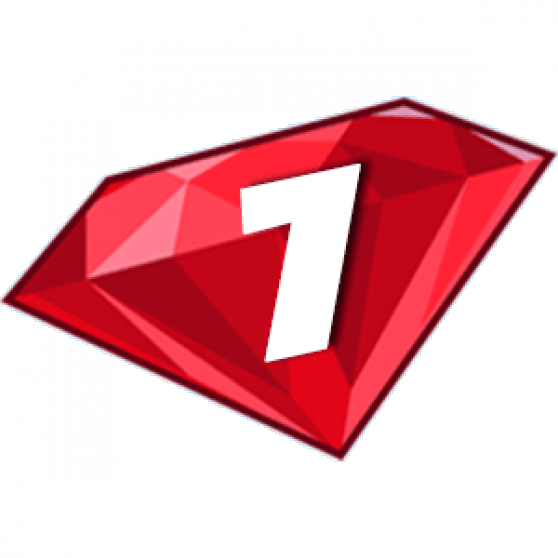
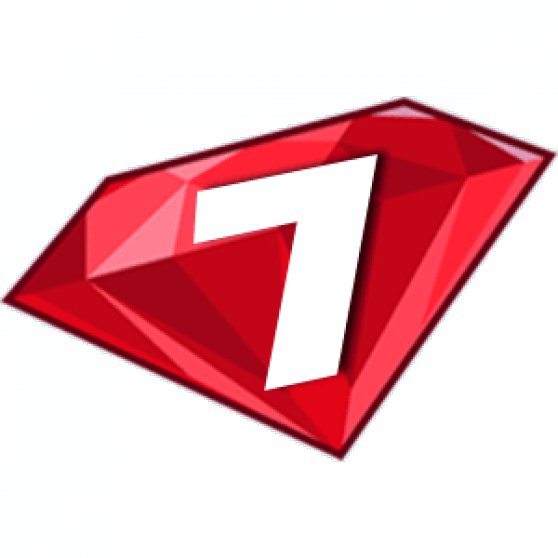
now a 7 day program!

Changed region(s): [[0.3351, 0.2437, 0.7007, 0.7007]]

diff --git a/js/javascript.js b/js/javascript.js
@@ -1,7 +1,7 @@
 // remove the static text for search engines
 document.getElementById("static").style.display = "none";
 
-var sevenDayBootcamp;		// kept outside for console inspection
+var app;		// kept outside for console inspection
 
 $.fn.ready(function(){
 
@@ -13,7 +13,7 @@ $.fn.ready(function(){
     return false;
   }
 
-  sevenDayBootcamp = {
+  app = {
     appname: "Seven Day HTML/CSS Bootcamp",
     structure: "",
     style: "",
@@ -30,139 +30,92 @@ $.fn.ready(function(){
       },
     fn: {
      setStructure: function(_structure) {
-        sevenDayBootcamp.structure = _structure || sevenDayBootcamp.structure;
+        app.structure = _structure || app.structure;
       },
       setStyle: function(_style) {
-        sevenDayBootcamp.style = _style || sevenDayBootcamp.style;
+        app.style = _style || app.style;
       },
-        // sets sevenDayBootcamp props, fills editors, renders output
+        // sets app props, fills editors, renders output
       useStructureStyle: function(settings) {
         if (typeof settings !== "object") { return false; }
         if (!settings.structure || !settings.style) { return false; }
-        sevenDayBootcamp.fn.setStructure(settings.structure);
-        sevenDayBootcamp.fn.setStyle(settings.style);
-        sevenDayBootcamp.editors.structure.getSession().setValue(settings.structure);
-        sevenDayBootcamp.editors.style.getSession().setValue(settings.style);
+        app.fn.setStructure(settings.structure);
+        app.fn.setStyle(settings.style);
+        app.editors.structure.getSession().setValue(settings.structure);
+        app.editors.style.getSession().setValue(settings.style);
         return true;
       },
       renderOutput: function(sWhat){
-        sevenDayBootcamp.throttle.render = sevenDayBootcamp.throttle.render || setTimeout(function(){
+        app.throttle.render = app.throttle.render || setTimeout(function(){
           sWhat = sWhat || "all";
           if ((sWhat === "html") || (sWhat === "all")) {
-            sevenDayBootcamp.$.output.body.html(
-                sevenDayBootcamp.structure
+            app.$.output.body.html(
+                app.structure
                 );
-            var sTitle = sevenDayBootcamp.$.output.body.find("h1:first").text().trim();
-            document.title = sevenDayBootcamp.appname;
-            if (sTitle && sTitle !== sevenDayBootcamp.appname) { document.title +=  " - " + sTitle; }
+            var sTitle = app.$.output.body.find("h1:first").text().trim();
+            document.title = app.appname;
+            if (sTitle && sTitle !== app.appname) { document.title +=  " - " + sTitle; }
           }
           if ((sWhat === "style") || (sWhat === "all")) {
-            sevenDayBootcamp.$.output.head.html(
-                $("<style />").html(sevenDayBootcamp.style)
+            app.$.output.head.html(
+                $("<style />").html(app.style)
                 );
           }
-          sevenDayBootcamp.throttle.render = undefined;
+          app.throttle.render = undefined;
         }, 500);
       },
-      saveToLocal: function(){
+      saveToLocal: function(day){
         var obj = {
-          structure: sevenDayBootcamp.editors.structure.getSession().getValue(),
-          style: sevenDayBootcamp.editors.style.getSession().getValue()
+          structure: app.editors.structure.getSession().getValue(),
+          style: app.editors.style.getSession().getValue()
         };
-        localStorage.sevenDayBootcamp = JSON.stringify(obj);
-        return localStorage.sevenDayBootcamp;
+        localStorage.setItem(day, JSON.stringify(obj));
+        return localStorage.getItem(day);
       },
-      getLocal: function() {
-        if (localStorage.sevenDayBootcamp) {
-          sevenDayBootcamp.fn.useStructureStyle($.parseJSON(localStorage.sevenDayBootcamp));
+      getLocal: function(day) {
+        data = localStorage.getItem(day);
+        if (data) {
+          app.fn.useStructureStyle($.parseJSON(data));
           return true;
         }
         return false;
       },
-      getDefaults: function(){
-        // probably not the cleanest way to do this...
+      getData: function(day){
         var iMilli = +new Date(), def = {};
-        function areWeThereYet() {
+        function load() {
           if (def.structure && def.style) {
-            sevenDayBootcamp.fn.useStructureStyle(def);
+            app.fn.useStructureStyle(def);
           }
         }
-        $.get("defaults/structure.html?" + iMilli, function(resp) {
+        $.get("/data/"+day+".html?" + iMilli, function(resp) {
           def.structure = resp;
-          areWeThereYet();
+          load();
         }, "text");
-        $.get("defaults/style.css?" + iMilli, function(resp) {
+        $.get("/data/"+day+".css?" + iMilli, function(resp) {
           def.style = resp;
-          areWeThereYet();
+          load();
         }, "text");
         return true;
       },
-      reset: function(){
-        delete localStorage.sevenDayBootcamp;
-        sevenDayBootcamp.fn.getDefaults();
+      reset: function(day){
+        delete localStorage.getItem(day);
+        app.fn.getData(day);
       },
       exportUri: function(){
         // will open a data URI in a new window, some browsers may cut it off...
-        var sTitle = sevenDayBootcamp.$.output.body.find("h1:first").text().trim();
+        var sTitle = app.$.output.body.find("h1:first").text().trim();
         var sUrl = "data:text/html," +
           encodeURIComponent(
               (sTitle ? "<title>" + sTitle + "</title> " : "") +
-              "<body>" + sevenDayBootcamp.structure + "</body> " +
-              "<style>" + sevenDayBootcamp.style + "</style> " +
+              "<body>" + app.structure + "</body> " +
+              "<style>" + app.style + "</style> " +
               "<form action='" + document.location.protocol + "//" + document.location.host + document.location.pathname + "' method='get' style='display:none'>" + 
-              "<textarea name='structure'>" + sevenDayBootcamp.editors.structure.getSession().getValue() + "</textarea> " +
-              "<textarea name='style'>" + sevenDayBootcamp.editors.style.getSession().getValue() + "</textarea> " +
+              "<textarea name='structure'>" + app.editors.structure.getSession().getValue() + "</textarea> " +
+              "<textarea name='style'>" + app.editors.style.getSession().getValue() + "</textarea> " +
               "</form> " +
               "<script src='" + document.location.protocol + "//" + document.location.host + document.location.pathname + "js/external.js'></script>"
               );
         window.open(sUrl);
-      },
-      getFromUrl: function(){
-        // http://stackoverflow.com/questions/439463/how-to-get-get-and-post-variables-with-jquery
-        var params = (function(){
-          var qs = document.location.search.split("+").join(" ");
-          var params = {}, tokens, re = /[?&]?([^=]+)=([^&]*)/g;
-          while (tokens = re.exec(qs)) {
-            params[decodeURIComponent(tokens[1])] = decodeURIComponent(tokens[2]);
-          }
-          return params;
-        }());
-        if (!params.structure || !params.style) { return false; }
-        sevenDayBootcamp.fn.useStructureStyle(params);
-        // clean up URL
-        if (Modernizr.history) {
-          history.replaceState(null, null, document.location.pathname);
-        }
-        return true;
-      },
-      fileDragOver: function (evt) {
-        evt.stopPropagation();
-          evt.preventDefault();
-          $body.addClass("dropit");
-      },
-      fileDrop: function (evt) {
-        evt.stopPropagation();
-          evt.preventDefault();
-          var files = evt.dataTransfer.files;
-          for (var i = 0, f; f = files[i]; i++) {
-            var reader = new FileReader();
-              reader.onload = (function (theFile) {
-                return function (e) {
-                  // clean this up!
-                  if (theFile.name.indexOf(".html") > -1) {
-                    sevenDayBootcamp.editors.structure.getSession().setValue(e.target.result);
-                    sevenDayBootcamp.fn.setStructure(e.target.result);
-                  } else if (theFile.name.indexOf(".css") > -1) {
-                    sevenDayBootcamp.editors.style.getSession().setValue(e.target.result);
-                    sevenDayBootcamp.fn.setStyle(e.target.result);
-                  }
-                };
-              })(f);
-            reader.readAsText(f);
-          }
-        sevenDayBootcamp.fn.renderOutput();
-        sevenDayBootcamp.fn.saveToLocal();
-        $body.removeClass("dropit");
       }
     } // fn
   };
@@ -172,74 +125,72 @@ $.fn.ready(function(){
   { name: "structure", id: "preStructure", mode: require("ace/mode/html").Mode },
   { name: "style", id: "preStyle", mode: require("ace/mode/css").Mode }
   ];
+  var day = function() {
+    var d;
+    if(location.href.split("?").length>1) {
+      d = location.href.split("?")[1].split("=")[1];
+    }
+    return d || 1
+  }()
+
   $.each(editors, function (iEditor, editor) {
-    var $editor = sevenDayBootcamp.$[editor.name] = $("#" + editor.id);
+    var $editor = app.$[editor.name] = $("#" + editor.id);
     var oEditor = ace.edit(editor.id);
     oEditor.setTheme("ace/theme/twilight");
     oEditor.getSession().setMode(new editor.mode);
     oEditor.renderer.setShowGutter(false);
     oEditor.renderer.setShowPrintMargin(false);
     oEditor.getSession().setUseSoftTabs(true);
-    sevenDayBootcamp.editors[editor.name] = oEditor;
+    app.editors[editor.name] = oEditor;
     oEditor.on("focus", function(){ $editor.addClass("focus"); });
     oEditor.on("blur", function(){ $editor.removeClass("focus"); });
   });
 
-  // attempt: fill from URL, get localStorage, or load defaults; then render
-  if (!sevenDayBootcamp.fn.getFromUrl()) {
-    if (!sevenDayBootcamp.fn.getLocal()) {
-      sevenDayBootcamp.fn.getDefaults();
-    }
+  // attempt: fill from localStorage, or load data; then render
+  if (!app.fn.getLocal(day)) {
+    app.fn.getData(day);
   }
-  sevenDayBootcamp.fn.renderOutput();
+  app.fn.renderOutput();
 
   // bind change events (not perfect: doesn't know paste, deleting)
   // could be abstracted more
-  sevenDayBootcamp.editors.structure.getSession().on('change', function() {
-    sevenDayBootcamp.fn.setStructure(sevenDayBootcamp.editors.structure.getSession().getValue());
-    sevenDayBootcamp.fn.renderOutput("html");
-    sevenDayBootcamp.fn.saveToLocal();
+  app.editors.structure.getSession().on('change', function() {
+    app.fn.setStructure(app.editors.structure.getSession().getValue());
+    app.fn.renderOutput("html");
+    app.fn.saveToLocal();
   });
-  sevenDayBootcamp.editors.style.getSession().on('change', function() {
-    sevenDayBootcamp.fn.setStyle(sevenDayBootcamp.editors.style.getSession().getValue());
-    sevenDayBootcamp.fn.renderOutput("style");
-    sevenDayBootcamp.fn.saveToLocal();
+  app.editors.style.getSession().on('change', function() {
+    app.fn.setStyle(app.editors.style.getSession().getValue());
+    app.fn.renderOutput("style");
+    app.fn.saveToLocal();
   });
 
-  sevenDayBootcamp.$.nav = $("#nav");
+  app.$.nav = $("#nav");
 
   // view switcher and nav links
-  sevenDayBootcamp.$.nav
+  app.$.nav
     .on("click", ".inpView", function(){
-      var $checked = sevenDayBootcamp.$.nav.find("input:checked"), sVal = $checked.val();
+      var $checked = app.$.nav.find("input:checked"), sVal = $checked.val();
       $body.attr("role", sVal);
       localStorage.view = sVal;
-      $.each(sevenDayBootcamp.editors, function(i, editor) {
+      $.each(app.editors, function(i, editor) {
         editor.resize();
       });
     })
   .on("click", "#aReset", function(){
-    sevenDayBootcamp.fn.reset();
+    app.fn.reset();
     return false;
   })
   .on("click", "#aExport", function(){
-    sevenDayBootcamp.fn.exportUri();
+    app.fn.exportUri();
     return false;
   });
 
   // view in localStorage?
   if (localStorage.view) { $(".inpView[value='" + localStorage.view + "']").click(); }
 
-  // handle files getting dragged into document
-  if (Modernizr.file) {
-    $body[0].addEventListener('dragover', sevenDayBootcamp.fn.fileDragOver, false);
-      $body[0].addEventListener('drop', sevenDayBootcamp.fn.fileDrop, false);
-    sevenDayBootcamp.$.output.body[0].addEventListener('dragover', sevenDayBootcamp.fn.fileDragOver, false);
-      sevenDayBootcamp.$.output.body[0].addEventListener('drop', sevenDayBootcamp.fn.fileDrop, false);
-  }
-
   // force links in output out of iframe
-  sevenDayBootcamp.$.output.body.on("click", "a", function() {
+  app.$.output.body.on("click", "a", function() {
     var $a = $(this);
     if ($a.attr("href") && $a.attr("href") !== "#") {
       document.location = $a.attr("href");

diff --git a/css/style.css b/css/style.css
@@ -64,7 +64,7 @@ body.loading:before {
   height: 100%;
   width: 100%;
   color: #666;
-  background: #fff url("images/loading.gif") center center no-repeat;
+  background: #fff url("/images/loading.gif") center center no-repeat;
   text-align: center;
   z-index: 1000;
 }
